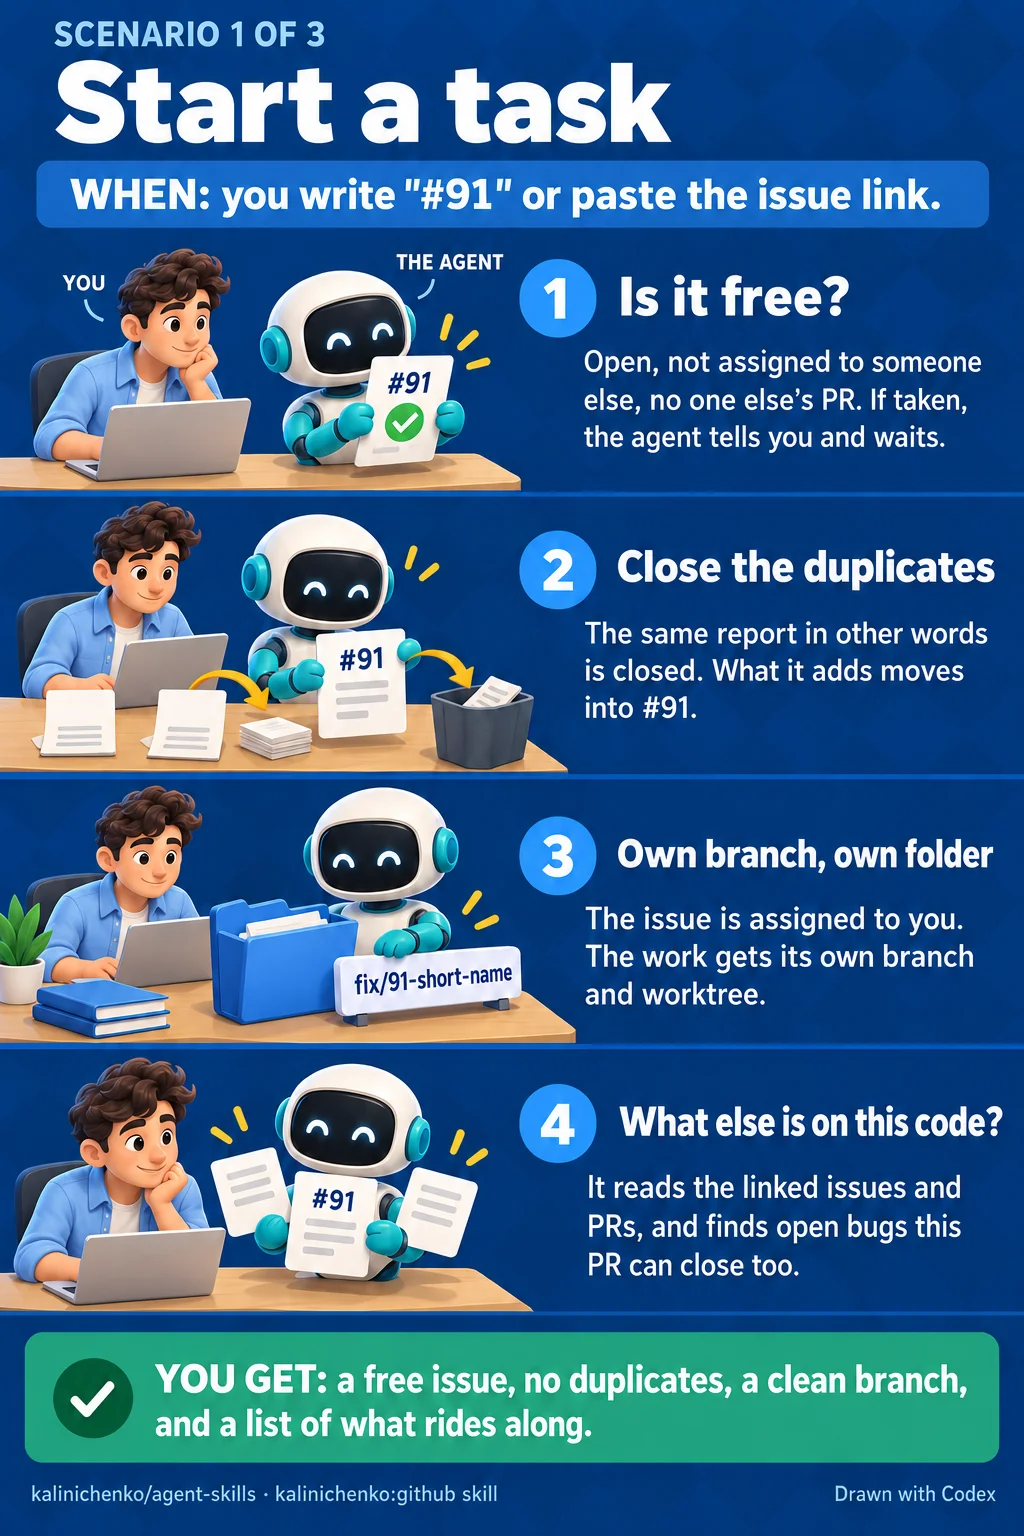
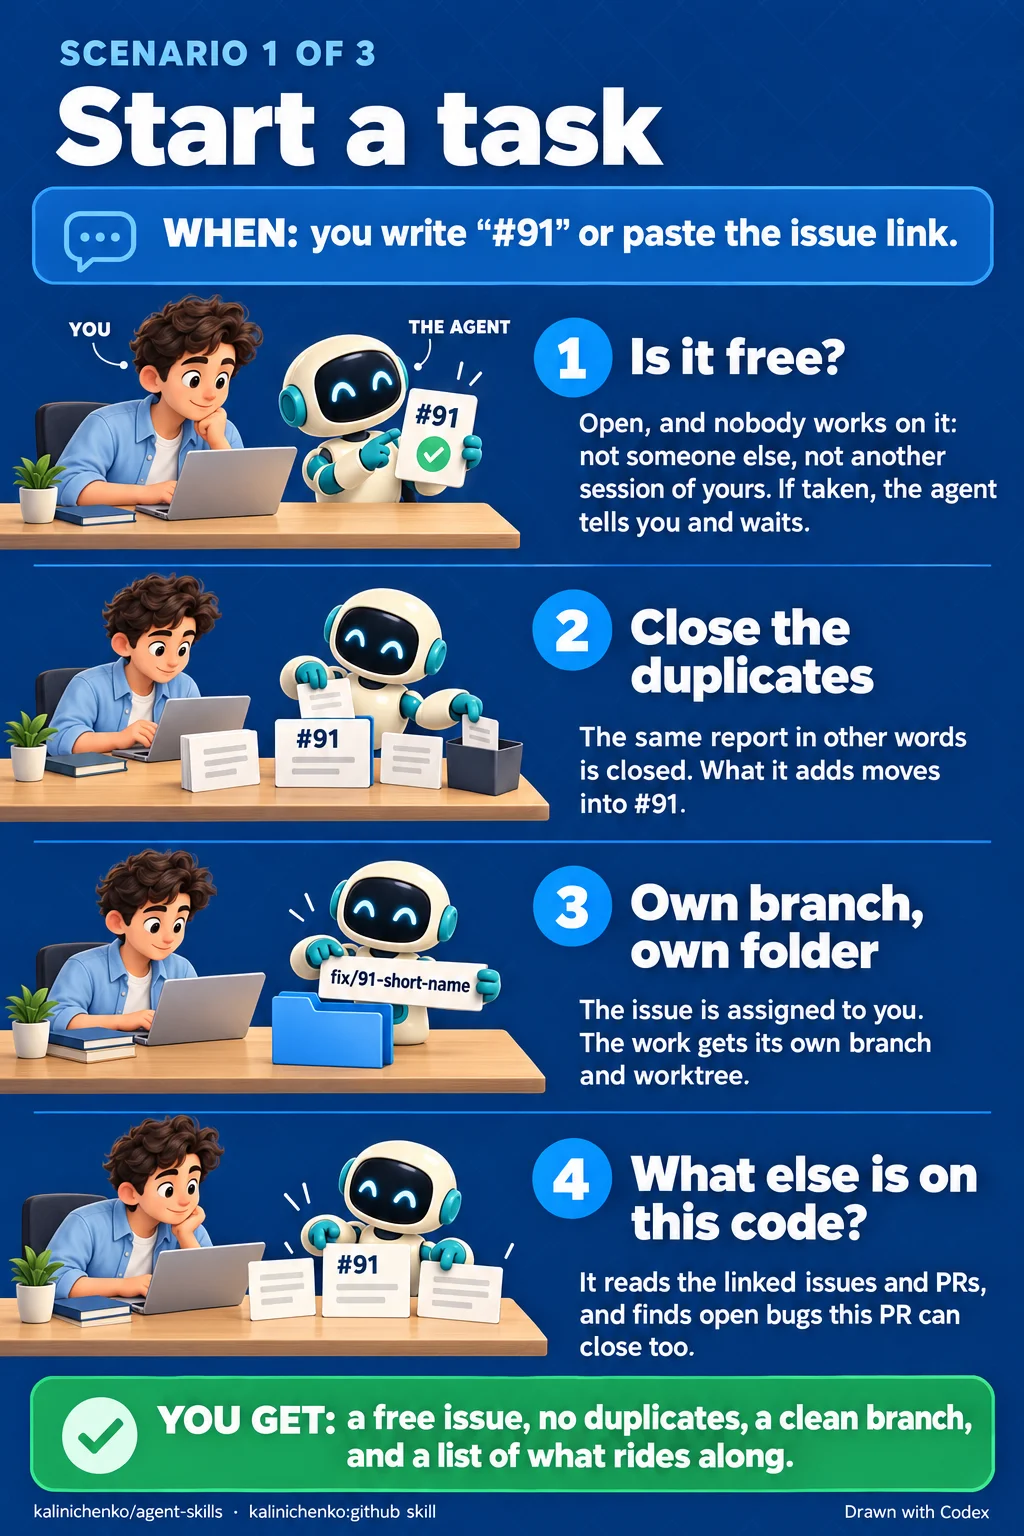
fix(github): redraw the start picture for the new take-in check, and settle its wording
- Change the "Is it free?" caption: nobody works on it, another session of yours included
- Say that your own pull request means the work has one, not that it is in review
- Put the person's answer first in the worktree.sh warning paragraph
- Shorten the script's header comment

diff --git a/skills/github/take-in.md b/skills/github/take-in.md
@@ -11,7 +11,7 @@ each reason why not, one per line:
 
 - `closed`, or a line that names someone else: say so and wait. These lines
   win over the lines below.
-- `PR #<n> by you`: the work is in review. Say so and stop.
+- `PR #<n> by you`: the work has a pull request already. Say so and stop.
 - Only an `assigned to you` line, `branch` lines, or both: another session of
   yours can work on the issue, on this computer or on another one. Show the
   person what the script printed, and ask one at a time, in this order:
@@ -84,9 +84,9 @@ branch at all.
 
 A linked branch in this repository, on an issue that nobody is assigned to,
 can be someone else's: the script warns, and does not assign the issue to you.
-Find out whose the branch is before you push to it, when the person did not say
-it after `take-in-check.sh`. Someone else's: say so and wait. Yours: run the command
-the warning gives, which assigns the issue to you.
+Find out whose the branch is before you push to it. When the person said it
+after `take-in-check.sh`, use that answer. Someone else's: say so and wait.
+Yours: run the command the warning gives, which assigns the issue to you.
 
 Then move into the worktree, when the script made one or found the branch in
 one. Claude Code: `EnterWorktree` with the path it printed. Codex cannot move a running session: every command takes the worktree

diff --git a/docs/github/brief.md b/docs/github/brief.md
@@ -32,7 +32,7 @@ Bottom line, small: "Also: commit messages and GitHub Actions versions follow th
 Canvas: portrait, the largest portrait size the tool offers (at least 1024x1536).
 Header: label "SCENARIO 1 OF 3", title "Start a task".
 Trigger box: "WHEN: you write \"#91\" or paste the issue link." (keep the double quotation marks around #91)
-1. "Is it free?" — THE AGENT examines ticket "#91" with a green check. Caption: "Open, not assigned to someone else, no one else's PR. If taken, the agent tells you and waits."
+1. "Is it free?" — THE AGENT examines ticket "#91" with a green check. Caption: "Open, and nobody works on it: not someone else, not another session of yours. If taken, the agent tells you and waits."
 2. "Close the duplicates" — THE AGENT moves notes from two similar blank tickets into ticket "#91"; one blank ticket goes into a small bin. Caption: "The same report in other words is closed. What it adds moves into #91."
 3. "Own branch, own folder" — THE AGENT sets up a separate folder and a branch sign "fix/91-short-name"; the developer's main desk stays tidy. Caption: "The issue is assigned to you. The work gets its own branch and worktree."
 4. "What else is on this code?" — THE AGENT shows two blank extra tickets next to ticket "#91". Caption: "It reads the linked issues and PRs, and finds open bugs this PR can close too."
